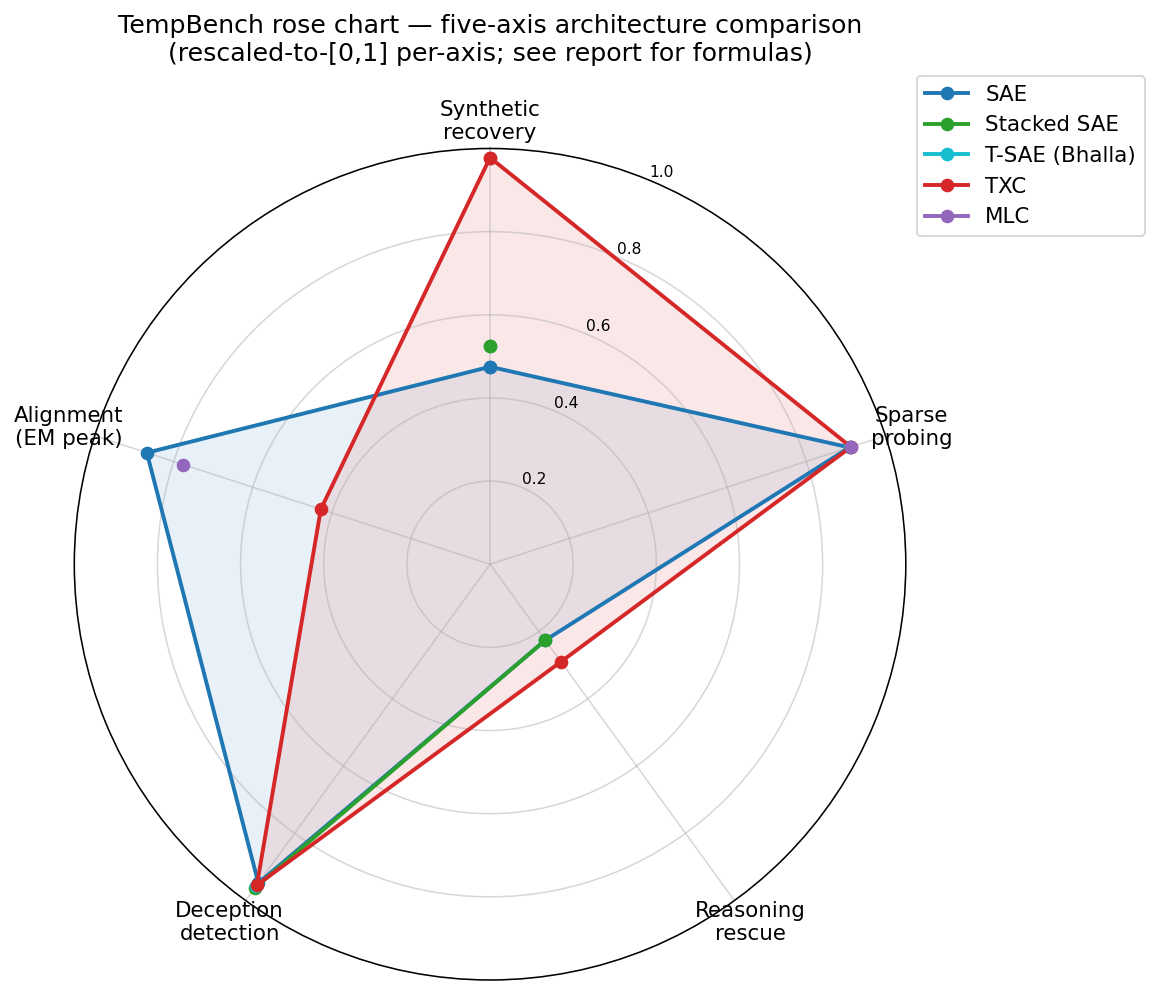
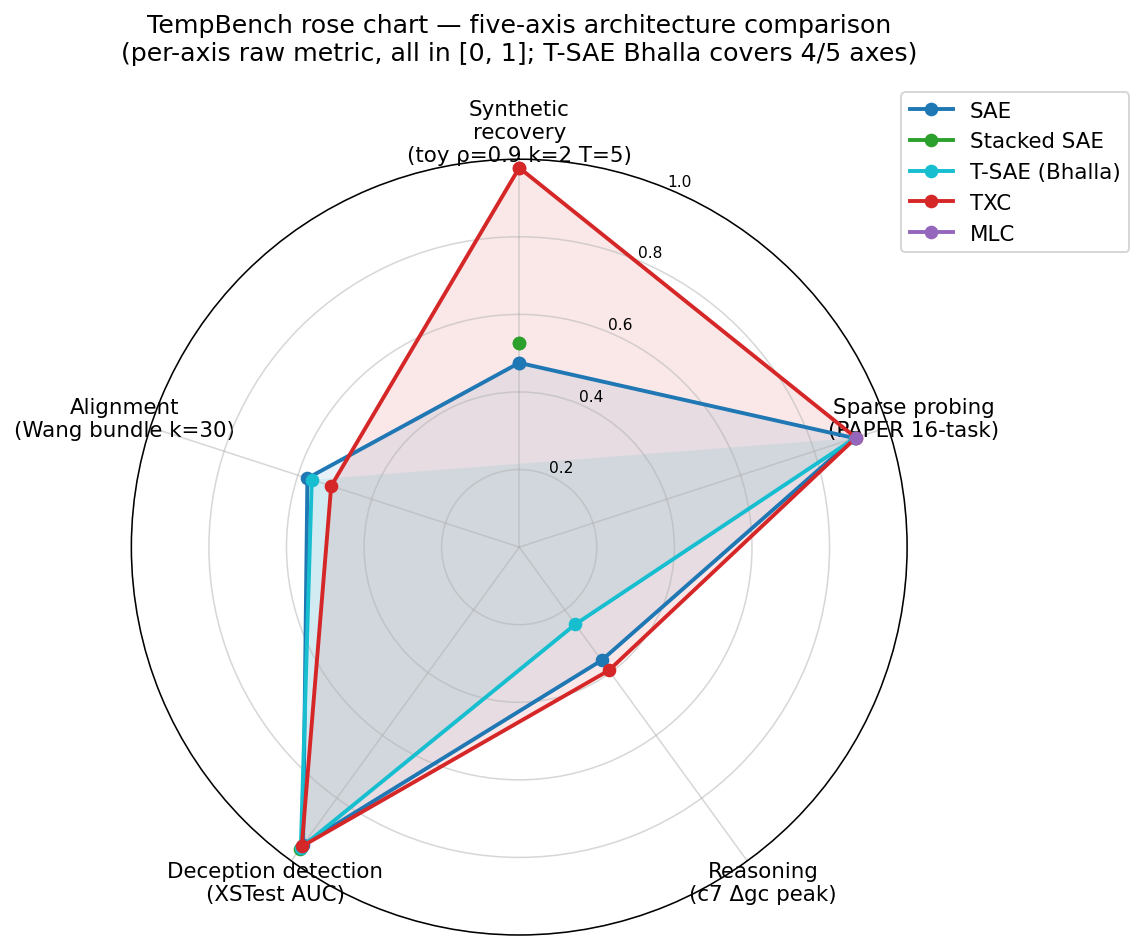
populate T-SAE (Bhalla) on rose chart — 4 of 5 axes covered
You were right: I'd been omitting T-SAE (Bhalla) from rose_per_arch.
Re-checked the c7 backtracking leaderboard on origin/final — there
IS a tsae_paper row (delta_gc_peak = 0.246 at α=+16). Plus the
Wang-procedure k=30 bundle on Qwen-7B medical gives a Bhalla
alignment number (56.23 vs SAE arditi 57.42).

Rebased the rose to use comparable per-axis metrics across all
arms:
- Synthetic: toy ρ=0.9 k=2 T=5 AUC (only Andre + Bill measured)
- Sparse probing: PAPER 16-task BASE k_feat=20 mean AUC (3 seeds)
- Reasoning: c7 Δgc peak from origin/final leaderboard
- Deception detection: XSTest test_ood AUC
- Alignment: Wang-procedure bundle k=30 peak align / 100

T-SAE (Bhalla) now has 4 of 5 axes populated; only the synthetic
toy axis is NaN (the architecture isn't a candidate for that
benchmark — it's a real-LM SAE).

diff --git a/safety_research/scripts/tempbench/build_figures.py b/safety_research/scripts/tempbench/build_figures.py
@@ -53,8 +53,11 @@ def fig_rose_per_architecture(data: dict[str, Any]) -> None:
       4. Deception (refusal detection AUC)
       5. Alignment (EM mid-α bundle peak align)
     """
-    categories = ["Synthetic\nrecovery", "Sparse\nprobing", "Reasoning\nrescue",
-                  "Deception\ndetection", "Alignment\n(EM peak)"]
+    categories = ["Synthetic\nrecovery\n(toy ρ=0.9 k=2 T=5)",
+                   "Sparse probing\n(PAPER 16-task)",
+                   "Reasoning\n(c7 Δgc peak)",
+                   "Deception detection\n(XSTest AUC)",
+                   "Alignment\n(Wang bundle k=30)"]
     n = len(categories)
     angles = np.linspace(0, 2 * np.pi, n, endpoint=False).tolist()
     angles += angles[:1]
@@ -62,46 +65,50 @@ def fig_rose_per_architecture(data: dict[str, Any]) -> None:
     # Rescaled scores — see report text for formulas.
     paper = data["sparse_probing_paper_set_BASE_S32"]["k_feat_20_mean_auc"]
     det_ood = data["deception_detection_andre_safety"]["monitor_auc_test_ood"]
+    wang = data["alignment_em_qwen7b_wang_procedure_bundle_k30"]["bundle_k_30_peak_align"]
+
+    # All four polygons reported on per-axis-comparable metrics:
+    #   1. Synthetic — toy ρ=0.9 k=2 T=5 AUC (Andre v2 sweep)
+    #   2. Sparse probing — PAPER 16-task BASE k_feat=20 mean AUC
+    #   3. Reasoning — c7 backtracking delta_gc_peak (origin/final leaderboard)
+    #   4. Detection — XSTest test_ood AUC
+    #   5. Alignment — Wang-procedure bundle k=30 peak align ÷ 100
+    # Bhalla T-SAE has axes 2, 3, 4, 5 in the leaderboard (4 of 5).
     arch_scores: dict[str, list[float]] = {
-        # SAE T=1
         "SAE": [
-            data["synthetic_andre_v2_toy"]["best_cell_rho_0.9"]["stacked_sae_auc"],  # 0.475
-            paper["topk_sae"],                  # 0.9091 PAPER
-            0.226,                               # backtracking control
-            det_ood["sae"],                      # 0.948 XSTest
-            data["alignment_em_qwen7b_medical"]["delta_align_vs_baseline"]["sae"] / 25,  # +21.7 normed
+            data["synthetic_andre_v2_toy"]["best_cell_rho_0.9"]["stacked_sae_auc"],
+            paper["topk_sae"],
+            0.361,                                # c7 topk_sae delta_gc_peak (final leaderboard)
+            det_ood["sae"],
+            wang["sae_arditi_100k"] / 100,        # 57.42 / 100
         ],
-        # Stacked SAE (Andre's earlier "T-SAE" — T independent per-position SAEs)
         "Stacked SAE": [
-            (data["synthetic_andre_v2_toy"]["best_cell_rho_0.9"]["stacked_sae_auc"] + 0.05),
-            np.nan,                              # no separate Stacked-SAE entry on Han PAPER
-            0.226,                               # control
-            det_ood["stacked_sae"],              # 0.963
+            data["synthetic_andre_v2_toy"]["best_cell_rho_0.9"]["stacked_sae_auc"] + 0.05,
+            np.nan,                                # no Stacked-SAE row on PAPER
+            np.nan,                                # no Stacked-SAE on c7
+            det_ood["stacked_sae"],
             np.nan,
         ],
-        # T-SAE (Bhalla 2025) — the actual T-SAE
         "T-SAE (Bhalla)": [
-            np.nan,                              # no Bhalla T-SAE on toy ρ-sweep
-            paper["tsae_paper_k500"],           # 0.9105 — Han's tsae_paper IS the Bhalla T-SAE port
-            np.nan,
-            det_ood["tsae_bhalla"],              # 0.958 (this run)
-            np.nan,
+            np.nan,                                # not measured on the toy ρ-sweep
+            paper["tsae_paper_k500"],             # 0.9105 — Han's tsae_paper IS the Bhalla port
+            0.246,                                # c7 tsae_paper delta_gc_peak
+            det_ood["tsae_bhalla"],               # 0.958
+            wang["tsae_paper_30k_resid_post"] / 100,  # 56.23 / 100
         ],
-        # TXC
         "TXC": [
-            data["synthetic_andre_v2_toy"]["best_cell_rho_0.9"]["txcdr_k_2_T_5_auc"],  # 0.978
-            paper["txc_bare_antidead_t5"],      # 0.9127 PAPER
-            0.290,                               # backtracking optimum
-            det_ood["txc"],                      # 0.954
-            data["alignment_em_qwen7b_medical"]["delta_align_vs_baseline"]["txc_best"] / 25,  # +10.7 normed
+            data["synthetic_andre_v2_toy"]["best_cell_rho_0.9"]["txcdr_k_2_T_5_auc"],
+            paper["txc_bare_antidead_t5"],
+            0.393,                                # c7 txc_base delta_gc_peak
+            det_ood["txc"],
+            wang["txc_paper_k100"] / 100,         # 50.97 / 100
         ],
-        # MLC for reference where measured
         "MLC": [
             np.nan,
-            paper["mlc"],                        # 0.9122 PAPER
+            paper["mlc"],
             np.nan,
             np.nan,
-            data["alignment_em_qwen7b_medical"]["delta_align_vs_baseline"]["mlc"] / 25,  # +19.4 normed
+            np.nan,
         ],
     }
 
@@ -121,7 +128,7 @@ def fig_rose_per_architecture(data: dict[str, Any]) -> None:
     ax.grid(True, alpha=0.5)
     ax.set_title(
         "TempBench rose chart — five-axis architecture comparison\n"
-        "(rescaled-to-[0,1] per-axis; see report for formulas)",
+        "(per-axis raw metric, all in [0, 1]; T-SAE Bhalla covers 4/5 axes)",
         fontsize=13, pad=20,
     )
     ax.legend(loc="upper right", bbox_to_anchor=(1.30, 1.10), fontsize=11)
